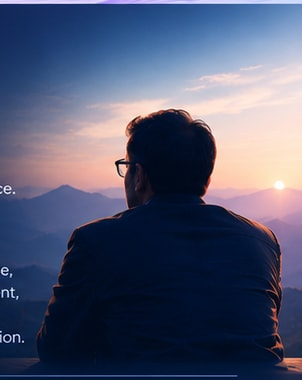
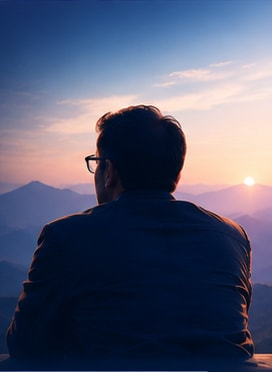
Reconstruct shared footer from supplied reference

diff --git a/app/globals.css b/app/globals.css
@@ -24,3 +24,64 @@
   .intent-row{padding-left:calc((100vw - 1672px)/2 + 80px);padding-right:calc((100vw - 1672px)/2 + 80px)}
   .footer-dark{padding-left:calc((100vw - 1672px)/2 + 50px);padding-right:calc((100vw - 1672px)/2 + 50px)}
 }
+
+/* Footer reconstructed to the supplied 1672 x 941 reference. */
+.site-footer{position:relative;overflow:hidden;background:#f7fbff}
+.intent-row{position:relative;isolation:isolate;height:354px;min-height:354px;padding:39px 80px 0;grid-template-columns:27fr 47fr 26fr;gap:0;align-items:start;background:radial-gradient(circle at 14% 35%,#f2fbff 0,rgba(242,251,255,.94) 22%,transparent 48%),radial-gradient(circle at 92% 34%,#fbf1ff 0,rgba(251,241,255,.9) 24%,transparent 50%),#fff}
+.intent-row::after{content:"";position:absolute;z-index:-1;left:0;right:0;bottom:0;height:66px;background:url('/art/footer-top-wave.png') center bottom/100% 66px no-repeat;pointer-events:none}
+.intent-row>*{position:relative;z-index:1}
+.signature{padding:26px 42px 0 0;text-align:left}
+.signature img{display:block;width:390px;max-width:100%;height:150px;object-fit:contain;object-position:left center}
+.signature p{margin:7px 0 0;letter-spacing:.41em;font-size:12px;text-align:center;white-space:nowrap}
+.intent{min-height:255px;padding:4px 42px 0 45px;border-left:1px solid #bdcbe0}
+.intent>b,.connect>b{display:block;font-size:13px;line-height:1;letter-spacing:.3em;color:#1268f1}
+.intent h2{margin:23px 0 23px;font-size:34px;line-height:1.18;letter-spacing:-.018em}
+.intent p{max-width:650px;margin:0;font-size:17px;line-height:1.42;letter-spacing:.018em;color:#354a78}
+.connect{min-height:255px;padding:2px 0 0 49px;border-left:1px solid #aebfda}
+.connect>p{margin:15px 0 9px;font-size:16px;line-height:1.42;color:#354a78}
+.connect button{height:63px;padding:0;border-color:#ccd7e8;grid-template-columns:46px 1fr 24px;font-size:16px}
+.connect button>svg:first-child{width:41px;height:41px;padding:9px}
+.connect button>svg:last-child{width:22px;height:22px}
+.connect .contact-icon{width:41px;height:41px;border-radius:50%;display:grid;place-items:center;background:linear-gradient(135deg,#087ef5,#ed13d6);color:#fff;font-size:18px;font-weight:700;font-family:Arial,sans-serif;letter-spacing:-.06em}
+
+.footer-dark{position:relative;isolation:isolate;height:587px;min-height:587px;padding:39px 50px 0;background:radial-gradient(circle at 91% 7%,#264f82 0,#092b58 25%,#001b43 55%,#001431 100%);color:white;overflow:hidden}
+.footer-dark::before,.footer-dark::after{content:"";position:absolute;z-index:-1;pointer-events:none;border-radius:50%}
+.footer-dark::before{left:-300px;bottom:-205px;width:590px;height:400px;background:repeating-radial-gradient(ellipse at 100% 0,transparent 0 11px,rgba(0,153,255,.22) 12px 13px,transparent 14px 18px);transform:rotate(8deg)}
+.footer-dark::after{right:-255px;bottom:-245px;width:570px;height:420px;background:repeating-radial-gradient(ellipse at 0 0,transparent 0 11px,rgba(54,64,255,.25) 12px 13px,transparent 14px 19px);transform:rotate(-8deg)}
+.footer-columns,.values,.copyright{position:relative;z-index:1}
+.footer-columns{height:333px;grid-template-columns:18.35% 21.05% 23.1% 37.5%}
+.footer-list{height:294px;padding:0 38px 0 29px}
+.footer-list h3,.about-footer h3{margin:4px 0 0;font-size:14px;line-height:1;letter-spacing:.28em;color:#adc9ff}
+.footer-list h3:after,.about-footer h3:after{width:47px;height:3px;margin:16px 0 15px}
+.footer-list a{height:42px;padding:0;font-size:16px;align-items:center}
+.footer-list svg{width:18px;height:18px}
+.about-footer{height:333px;min-height:0;padding:0 225px 0 48px;overflow:visible}
+.about-footer h3,.about-footer p{position:relative;z-index:2}
+.about-footer p{margin:0 0 17px;font-size:16px;line-height:1.42}
+.about-footer img{z-index:0;left:auto!important;right:-50px!important;top:-39px!important;width:272px!important;height:372px!important;object-fit:cover;object-position:center right;opacity:1}
+.about-footer::after{content:"";position:absolute;z-index:1;top:-39px;right:160px;width:155px;height:372px;background:linear-gradient(90deg,#092b58 0,rgba(9,43,88,.88) 30%,transparent 100%);pointer-events:none}
+.values{height:140px;padding:0;border-color:#3d8bc6;align-items:center}
+.value{height:106px;padding:0 62px;gap:25px}
+.value>svg{width:74px;height:74px;min-width:74px;padding:18px;background:rgba(15,59,117,.92);color:#43c2ff}
+.value:nth-child(2)>svg,.value:nth-child(3)>svg{color:#ef2adc;background:rgba(72,24,113,.72)}
+.value p{font-size:16px}
+.value b{font-size:17px;line-height:1.2}
+.value span{margin-top:7px;font-size:15px;line-height:1.45}
+.copyright{height:74px;padding:0;align-items:center;font-size:13px}
+.copyright em{font-size:24px}
+
+@media(min-width:1673px){
+  .intent-row{padding-left:calc((100vw - 1672px)/2 + 80px);padding-right:calc((100vw - 1672px)/2 + 80px)}
+  .footer-dark{padding-left:calc((100vw - 1672px)/2 + 50px);padding-right:calc((100vw - 1672px)/2 + 50px)}
+  .about-footer img{right:calc((1672px - 100vw)/2 - 50px)!important}
+}
+@media(max-width:1200px){
+  .intent-row{padding-left:48px;padding-right:48px}.intent h2{font-size:28px}.intent p,.connect>p{font-size:14px}.connect{padding-left:28px}
+  .footer-dark{height:auto;min-height:587px;padding-left:34px;padding-right:34px}.footer-columns{grid-template-columns:1fr 1fr 1fr;height:auto}.about-footer{grid-column:1/-1;height:315px;padding:34px 34% 0 30px}.about-footer img{right:-34px!important;top:0!important;height:315px!important}.about-footer::after{top:0;height:315px}.values{height:auto;min-height:140px}.value{padding:18px 28px}.copyright{height:74px}
+}
+@media(max-width:768px){
+  .intent-row{height:auto;min-height:0;padding:35px 22px 78px;grid-template-columns:1fr}.intent-row::after{height:66px;background-size:auto 66px}
+  .signature{padding:0 0 24px;text-align:center}.signature img{margin:auto;object-position:center}.signature p{white-space:normal}.intent,.connect{min-height:0;padding:25px 0 0;border-left:0;border-top:1px solid #cbd7ea}.intent h2{font-size:28px}.intent p,.connect>p{font-size:16px}
+  .footer-dark{height:auto;min-height:0;padding:34px 22px 18px}.footer-columns{display:block;height:auto}.footer-list{height:auto;padding:20px 5px}.about-footer{height:315px;padding:25px 38% 25px 5px}.about-footer p{font-size:14px}.about-footer img{right:-22px!important;height:315px!important}.values{height:auto;grid-template-columns:1fr 1fr;padding:8px 0}.value{height:auto;min-height:112px;padding:16px}.value>svg{width:58px;height:58px;min-width:58px;padding:14px}.copyright{height:auto;min-height:118px;padding:20px 0}
+}
+@media(max-width:430px){.about-footer{height:auto;min-height:300px;padding-right:5px}.about-footer img{width:100%!important;right:0!important;opacity:.18}.about-footer::after{display:none}.values{grid-template-columns:1fr}.value{min-height:100px}.copyright em{font-size:21px}}

diff --git a/components/site-shell.tsx b/components/site-shell.tsx
@@ -2,7 +2,7 @@
 
 import Image from "next/image";
 import Link from "next/link";
-import { ArrowRight, Contact, Lightbulb, Mail, Menu, MessageCircle, Sprout, Target, Users, X } from "lucide-react";
+import { ArrowRight, Lightbulb, Mail, Menu, MessageCircle, Sprout, Target, Users, X } from "lucide-react";
 import { useState } from "react";
 
 const nav = [["Home","/"],["About","/about"],["The Lean Nervous System","/lean-nervous-system"],["Blog","/#site-footer"],["Literary Lounge","/literary-lounge"],["Contact Me","/#connect"]];
@@ -14,8 +14,8 @@ export function SiteHeader(){
 
 export function SiteFooter(){
   const explore=[["Home","/"],["About","/about"],["The Lean Nervous System","/lean-nervous-system"],["Blog","/#site-footer"],["Literary Lounge","/literary-lounge"],["Contact Me","/#connect"]];
-  return <footer id="site-footer" className="site-footer"><div className="intent-row"><div className="signature"><Image src="/art/signature.png" alt="Rajesh Koul" width={390} height={150}/><p>THINK · TRANSFORM · LEAD</p></div><div className="intent"><b>MY INTENT</b><h2>Move Beyond Tools. Diagnose Maturity.<br/><span>Design Organisations That Run, Learn,<br/>And Improve — By Themselves.</span></h2><p>Helping organisations evolve from fragmented improvements to connected, adaptive, and future-ready systems.</p></div><div className="connect" id="connect"><b>LET’S CONNECT</b><p>Insights on transformation, leadership,<br/>and the Lean way of thinking.</p><button disabled title="Destination not supplied"><Contact/>Connect on LinkedIn<ArrowRight/></button><button disabled title="Contact destination not supplied"><Mail/>Get in Touch<ArrowRight/></button><button disabled title="Contact destination not supplied"><MessageCircle/>Start a Conversation<ArrowRight/></button></div></div>
-    <div className="footer-dark"><div className="footer-columns"><FooterList title="EXPLORE" links={explore}/><FooterList title="FOCUS AREAS" links={[["Enterprise Transformation","/"],["Industry 4.0","/"],["Lean Systems","/lean-nervous-system"],["Leadership Advisory","/literary-lounge/coaching"],["Organisational Maturity","/"]]}/><FooterList title="KNOWLEDGE & INSIGHTS" links={[["Books I Recommend","/literary-lounge/books"],["Podcast","/literary-lounge/podcast"],["Ideas & Perspectives","/literary-lounge"],["Tools & Frameworks","/"],["Case Examples","/"]]}/><div className="about-footer"><h3>ABOUT RAJESH KOUL</h3><p>Rajesh Koul is a global transformation leader with over three decades of experience in leading large-scale enterprise transformations, leadership development, and operational excellence.</p><p>His mission is to help mid-sized organisations — the backbone of the Indian economy — grow with confidence, compete globally, and evolve into resilient, world-class enterprises.</p><Image src="/art/footer-portrait.jpg" alt="Leader looking across a mountain landscape" fill sizes="300px"/></div></div>
+  return <footer id="site-footer" className="site-footer"><div className="intent-row"><div className="signature"><Image src="/art/signature.png" alt="Rajesh Koul" width={390} height={150}/><p>THINK · TRANSFORM · LEAD</p></div><div className="intent"><b>MY INTENT</b><h2>Move Beyond Tools. Diagnose Maturity.<br/><span>Design Organisations That Run, Learn,<br/>And Improve — By Themselves.</span></h2><p>Helping organisations evolve from fragmented improvements to connected, adaptive, and future-ready systems.</p></div><div className="connect" id="connect"><b>LET’S CONNECT</b><p>Insights on transformation, leadership,<br/>and the Lean way of thinking.</p><button disabled title="Destination not supplied"><span className="contact-icon" aria-hidden="true">in</span>Connect on LinkedIn<ArrowRight/></button><button disabled title="Contact destination not supplied"><Mail/>Get in Touch<ArrowRight/></button><button disabled title="Contact destination not supplied"><MessageCircle/>Start a Conversation<ArrowRight/></button></div></div>
+    <div className="footer-dark"><div className="footer-columns"><FooterList title="EXPLORE" links={explore}/><FooterList title="FOCUS AREAS" links={[["Enterprise Transformation","/"],["Industry 4.0","/"],["Lean Systems","/lean-nervous-system"],["Leadership Advisory","/literary-lounge/coaching"],["Organisational Maturity","/"]]}/><FooterList title="KNOWLEDGE & INSIGHTS" links={[["Books I Recommend","/literary-lounge/books"],["Podcast","/literary-lounge/podcast"],["Ideas & Perspectives","/literary-lounge"],["Tools & Frameworks","/"],["Case Examples","/"]]}/><div className="about-footer"><h3>ABOUT RAJESH KOUL</h3><p>Rajesh Koul is a global transformation leader with over three decades of experience in leading large-scale enterprise transformations, leadership development, and operational excellence.</p><p>His mission is to help mid-sized organisations — the backbone of the Indian economy — grow with confidence, compete globally, and evolve into resilient, world-class enterprises.</p><Image src="/art/footer-portrait.jpg" alt="Leader looking across a mountain landscape" fill sizes="300px" priority/></div></div>
       <div className="values"><Value icon={<Lightbulb/>} title="Thought Leadership" text="Ideas rooted in experience and real-world impact."/><Value icon={<Target/>} title="Practical Impact" text="Actionable frameworks that deliver results."/><Value icon={<Users/>} title="People First" text="Building capability and a culture of continuous improvement."/><Value icon={<Sprout/>} title="Sustainable Growth" text="For resilient organisations and a better tomorrow."/></div>
       <div className="copyright"><span>© 2025 Rajesh Koul. All rights reserved.</span><span>Privacy Policy　 |　 Terms of Use</span><em>Keep Learning. Keep Improving.</em></div>
     </div></footer>
